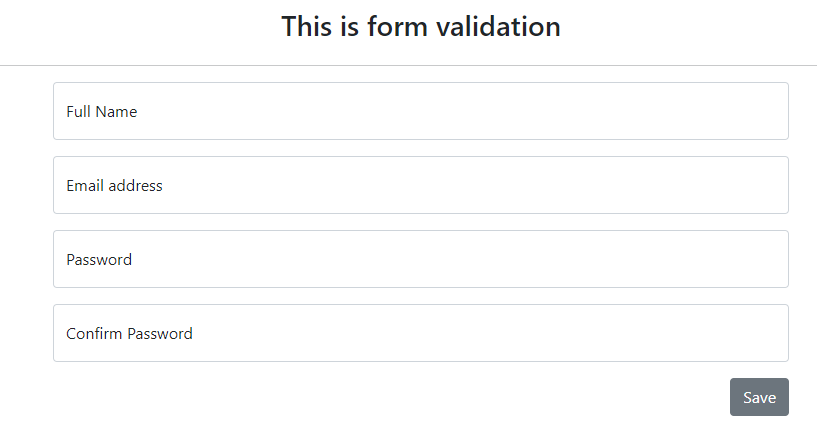
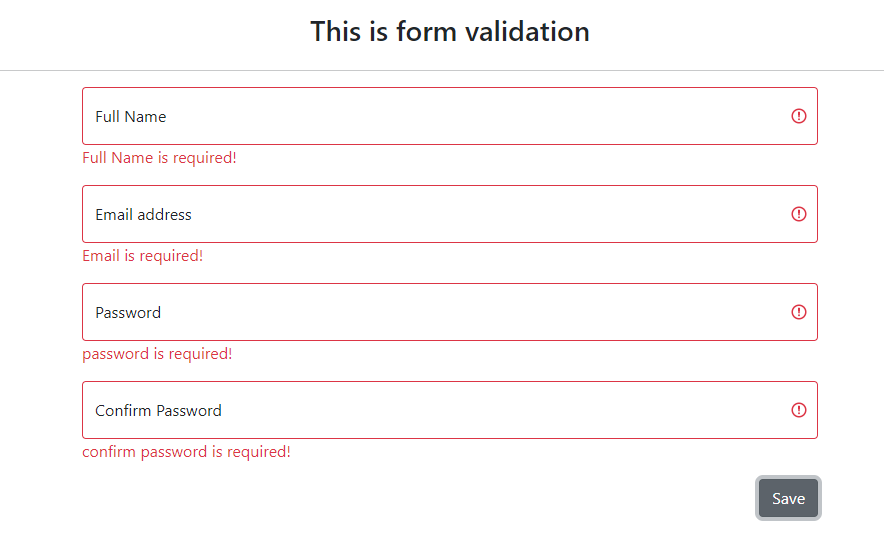
last commit

diff --git a/src/FormSignUp.js b/src/FormSignUp.js
@@ -17,7 +17,7 @@ const FormSignUp = () => {
           <div className="form-floating mb-3">
             <input
               type="text"
-              className="form-control"
+              className={`form-control ${errors.fullName && "is-invalid"}`}
               name="fullName"
               id="fullName"
               placeholder="Full Name"
@@ -34,7 +34,7 @@ const FormSignUp = () => {
           <div className="form-floating mb-3">
             <input
               type="email"
-              className="form-control"
+              className={`form-control ${errors.email && "is-invalid"}`}
               name="email"
               id="email"
               placeholder="name@example.com"
@@ -51,7 +51,7 @@ const FormSignUp = () => {
           <div className="form-floating mb-3">
             <input
               type="password"
-              className="form-control"
+              className={`form-control ${errors.password && "is-invalid"}`}
               placeholder="Password"
               id="password"
               name="password"
@@ -68,7 +68,9 @@ const FormSignUp = () => {
           <div className="form-floating">
             <input
               type="password"
-              className="form-control"
+              className={`form-control ${
+                errors.confirm_password && "is-invalid"
+              }`}
               placeholder="Confirm Password"
               id="confirm_password"
               name="confirm_password"
